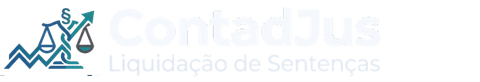
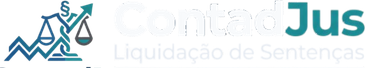
Add files via upload

diff --git a/index.html b/index.html
@@ -17,8 +17,8 @@
         <!-- Cabeçalho -->
         <header class="bg-blue-900 text-white p-6 rounded-t-xl shadow-md flex flex-col md:flex-row justify-between items-center no-print">
             <div class="flex flex-col md:flex-row items-center gap-4 min-w-0">
-                <img src="assets/contadjus-header.png" alt="ContadJus - Liquidação de Sentenças" class="h-12 w-auto object-contain shrink-0">
-                <div class="hidden md:block h-12 w-px bg-blue-700"></div>
+                <img src="assets/contadjus-header.png" alt="ContadJus - Liquidação de Sentenças" class="h-14 w-auto object-contain shrink-0">
+                <div class="hidden md:block h-14 w-px bg-blue-600"></div>
                 <div class="text-center md:text-left">
                     <h1 class="text-2xl font-bold">Cálculo de Evolução de Benefício RGPS</h1>
                     <p class="text-blue-200 text-sm mt-1">Reajustamento Histórico e Atualização de RMI / RMA - Âmbito Judicial e Administrativo</p>

diff --git a/CHANGELOG_B37.md b/CHANGELOG_B37.md
@@ -1,0 +1,10 @@
+# B37 — Ajuste visual da logo no cabeçalho
+
+- Substituída a versão anterior da logo horizontal por uma composição horizontal com:
+  - símbolo ContadJus em azul/turquesa;
+  - “Contad” em branco para alto contraste;
+  - “Jus” preservando o tom turquesa da identidade;
+  - “Liquidação de Sentenças” em tom claro;
+- Altura da logo no cabeçalho ajustada de `h-12` para `h-14`.
+- Divisor vertical ajustado para acompanhar a nova altura.
+- Nenhuma lógica de cálculo foi alterada.
